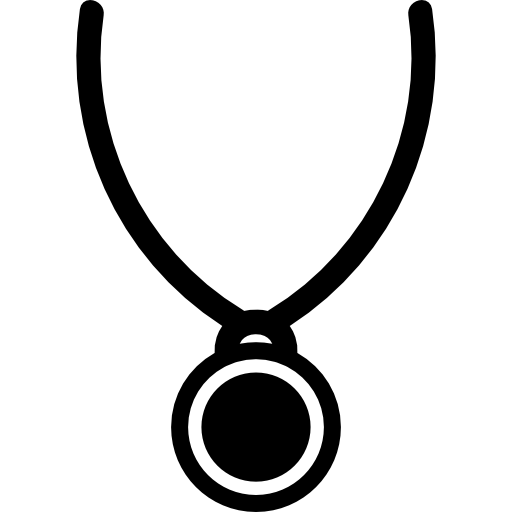
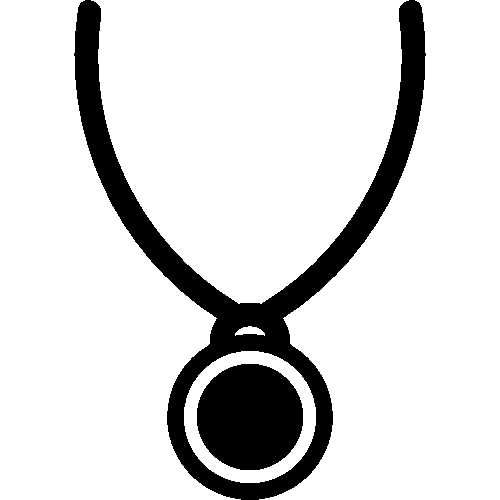
Store.body(implemented)

diff --git a/Store.css b/Store.css
@@ -70,7 +70,62 @@ a {
 }
 
 div img{
-    padding: 30px;
-    width: 50%;
-    height: 50%;
+    padding: 5%;
+    width: 25%;
+    height: 25%;
 }
+
+h2{
+    align-items: center;
+    font-family: '20XX','Times New Roman', Times, serif;
+    font-size: 32px;
+}
+
+div{
+    background-color: rgb(51, 51, 51);
+}
+
+tbody{
+    display: block;
+    background-color: rgb(51, 51, 51);
+    padding: .1rem;
+    margin: .1rem 0;
+    border-radius: .1rem;
+    border: lightgrey .1rem solid;
+    font-family: 'BabelStoneHan', 'Times New Roman', Times, serif;
+    font-size: 25px;
+    text-align: center;
+}
+td {
+    border: 1px solid;
+    border-color: lightblue;
+}
+button {
+    font-family: 'PSP2', 'Times New Roman', Times, serif;
+    color: blue;
+    background-color: lightgrey;
+    border-color: orange;
+    font-size: 8px;
+    border-radius: 5px;
+}
+
+select {
+    font-family: 'PSP2', 'Times New Roman', Times, serif;
+    color: blue;
+    background-color: lightgrey;
+    border-color: orange;
+    font-size: 8px;
+    border-radius: 5px;
+}
+
+@media (orientation: portrait) {
+    body {
+      flex-direction: column;
+    }
+   }
+   
+   @media ((orientation: portrait) and (max-height: 600px)) {
+    footer {
+      display: none;
+    }
+   }

diff --git a/main.css b/main.css
@@ -11,18 +11,6 @@
     src: url(fonts/PressStart2P.ttf);
 }
 
-@media (orientation: portrait) {
-    body {
-      flex-direction: column;
-    }
-   }
-   
-   @media ((orientation: portrait) and (max-height: 600px)) {
-    footer {
-      display: none;
-    }
-   }
-
 
 *{
     background-color: black;
@@ -114,3 +102,15 @@ button {
     font-size: 8px;
     border-radius: 5px;
 }
+
+@media (orientation: portrait) {
+    body {
+      flex-direction: column;
+    }
+   }
+   
+   @media ((orientation: portrait) and (max-height: 600px)) {
+    footer {
+      display: none;
+    }
+   }

diff --git a/ScoreBoard.css b/ScoreBoard.css
@@ -102,3 +102,15 @@ td {
     border: 1px solid;
     border-color: lightblue;
 }
+
+@media (orientation: portrait) {
+    body {
+      flex-direction: column;
+    }
+   }
+   
+   @media ((orientation: portrait) and (max-height: 600px)) {
+    footer {
+      display: none;
+    }
+   }
